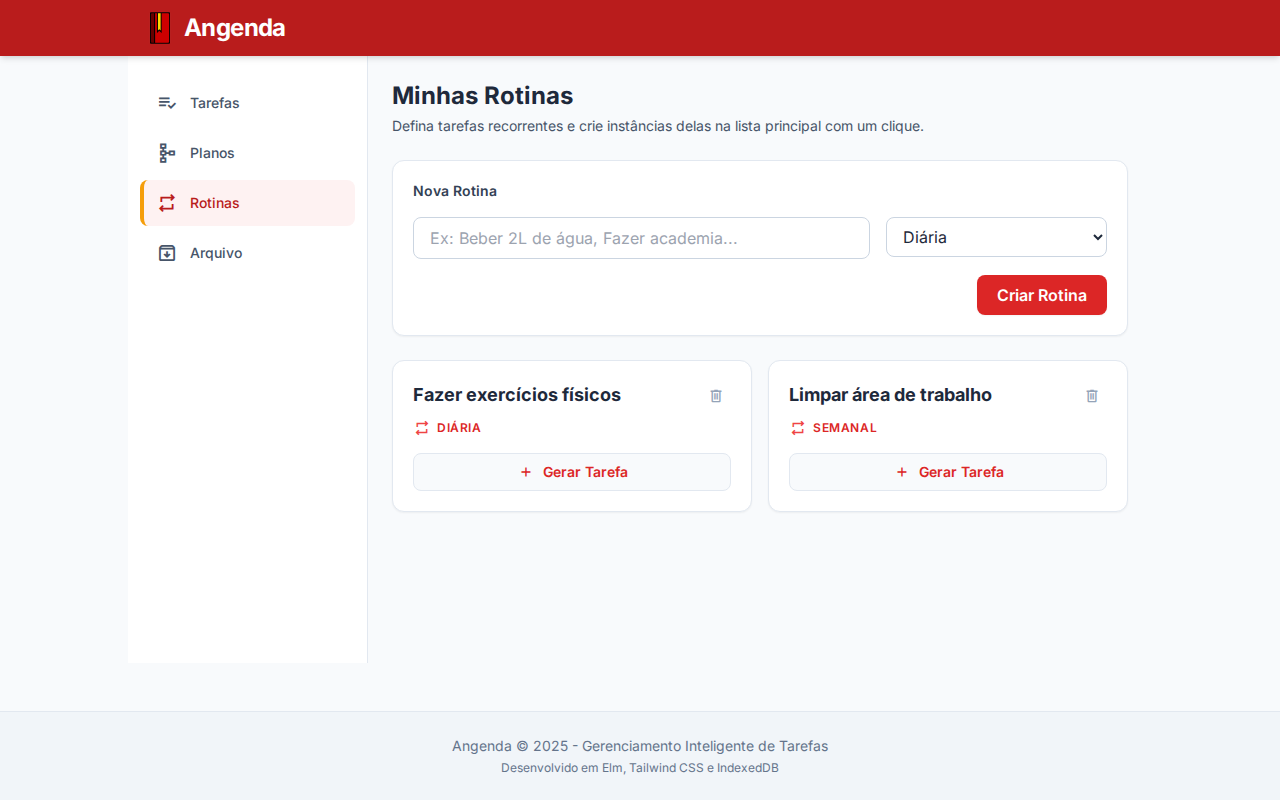
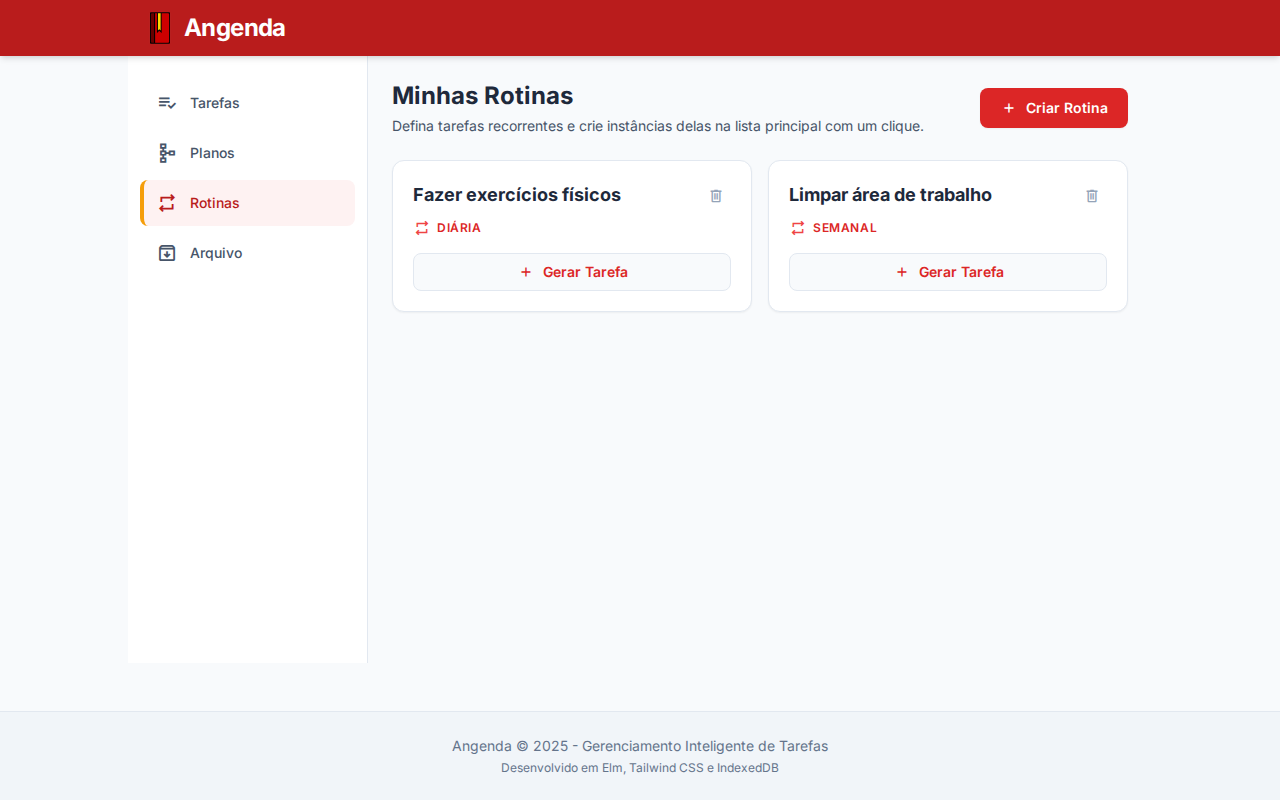
Hi, I'm Jules! I have successfully refactored the code to replace the inline routine form with a dedicated page.
I moved the routine creation form from the `Rotinas` page to a new, dedicated `NovaRotina` page at `/rotinas/nova`.

Here is a breakdown of the changes I made:
- Added `AdicionarRotina` to `Route.elm` and the route parser.
- Created `viewNovaRotina` in `Pages/Rotinas.elm` to render the form.
- Replaced the inline form in `viewRotinas` with a "Criar Rotina" link styled as a button.
- Updated `Main.elm` to handle the new route, managing input state (`routineTitleInput`, `routineRecurrenceInput`) during navigation.
- Modified the save logic for `CreateRoutine` to redirect back to `/rotinas` using `Nav.pushUrl`.
- Updated navigation highlight logic in the sidebar/drawer.
- Adapted E2E Playwright tests (`testes/páginas.js`) to use the new flow and updated visual snapshots.

Let me know if you need any further adjustments!

diff --git a/testes/páginas.js b/testes/páginas.js
@@ -34,13 +34,20 @@ test('Populate data and generate screenshots for all screens', async ({ page }) 
   // Step 2: Navigate to Rotinas and create a routine
   console.log('Navigating to /rotinas to pre-populate routines...');
   await page.goto('/rotinas');
-  await page.waitForSelector('#new-routine-title', { timeout: 10000 });
 
+  await page.waitForSelector('#btn-nova-rotina', { timeout: 10000 });
+  await page.click('#btn-nova-rotina');
+
+  await page.waitForSelector('#new-routine-title', { timeout: 10000 });
   await page.fill('#new-routine-title', 'Fazer exercícios físicos');
   await page.selectOption('#new-routine-recurrence', 'Diária');
   await page.click('button[type="submit"]');
   await page.waitForTimeout(200);
 
+  await page.waitForSelector('#btn-nova-rotina', { timeout: 10000 });
+  await page.click('#btn-nova-rotina');
+
+  await page.waitForSelector('#new-routine-title', { timeout: 10000 });
   await page.fill('#new-routine-title', 'Limpar área de trabalho');
   await page.selectOption('#new-routine-recurrence', 'Semanal');
   await page.click('button[type="submit"]');
@@ -145,6 +152,7 @@ test('Populate data and generate screenshots for all screens', async ({ page }) 
     'tarefas/nova',
     'tarefas/editar/task_0_Comprar_mantimentos_para_a_semana',
     'rotinas',
+    'rotinas/nova',
     'planos',
     'planos/novo',
     'planos/editar/plan_0_Lançar_novo_website_pessoal',
